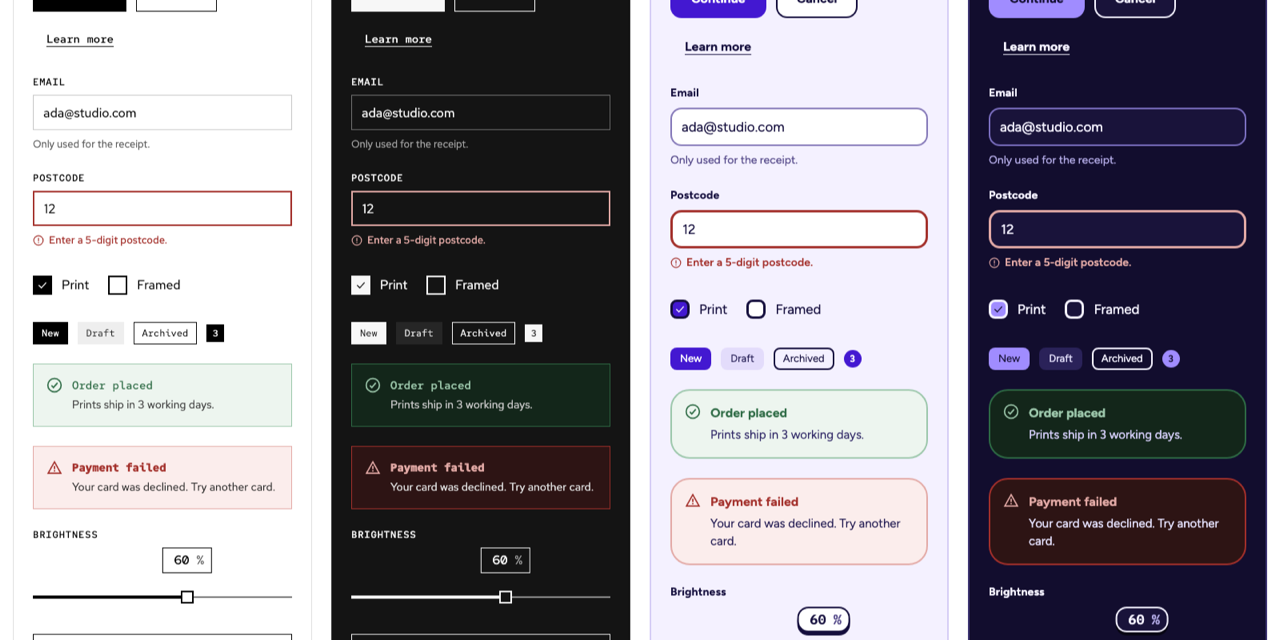
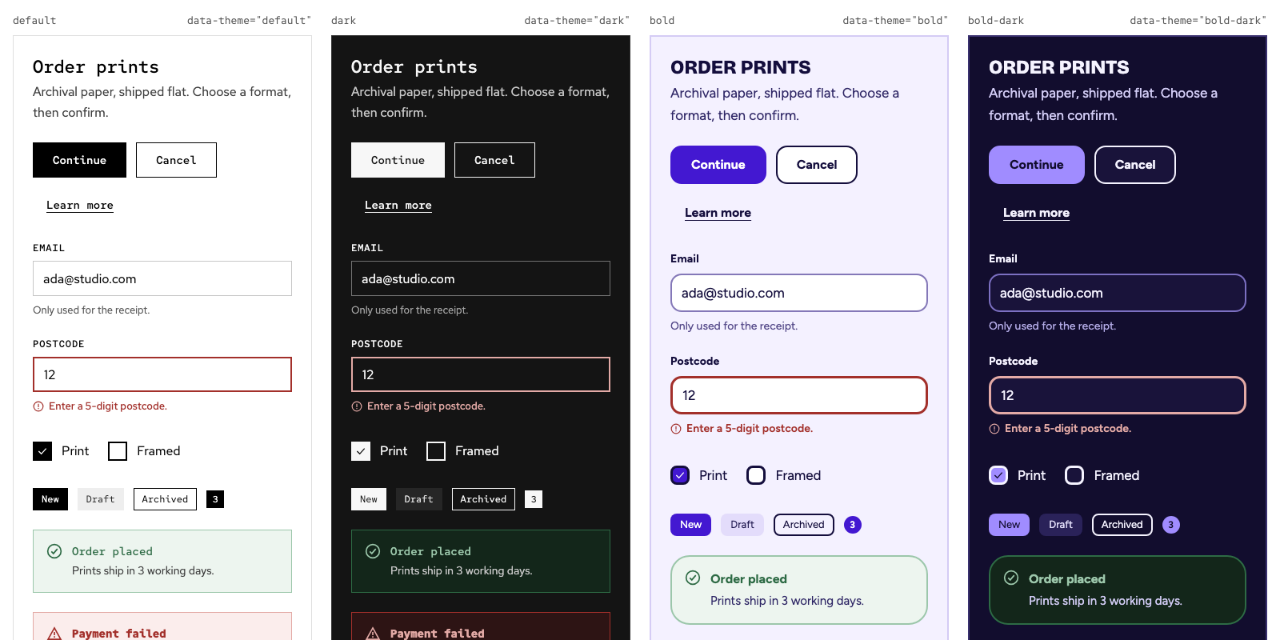
DS-69: crop social preview from top

diff --git a/scripts/social-preview.test.ts b/scripts/social-preview.test.ts
@@ -1,7 +1,7 @@
 import { readFileSync, statSync } from 'node:fs'
 import { join } from 'node:path'
 
-// Generated by scripts/social-preview.sh; uploaded manually in GitHub Settings -> General.
+// Generated by scripts/social-preview.mjs (node scripts/social-preview.mjs); uploaded manually in GitHub Settings -> General.
 const path = join(__dirname, '..', 'docs', 'images', 'readme', 'social-preview.png')
 
 describe('social preview image', () => {
